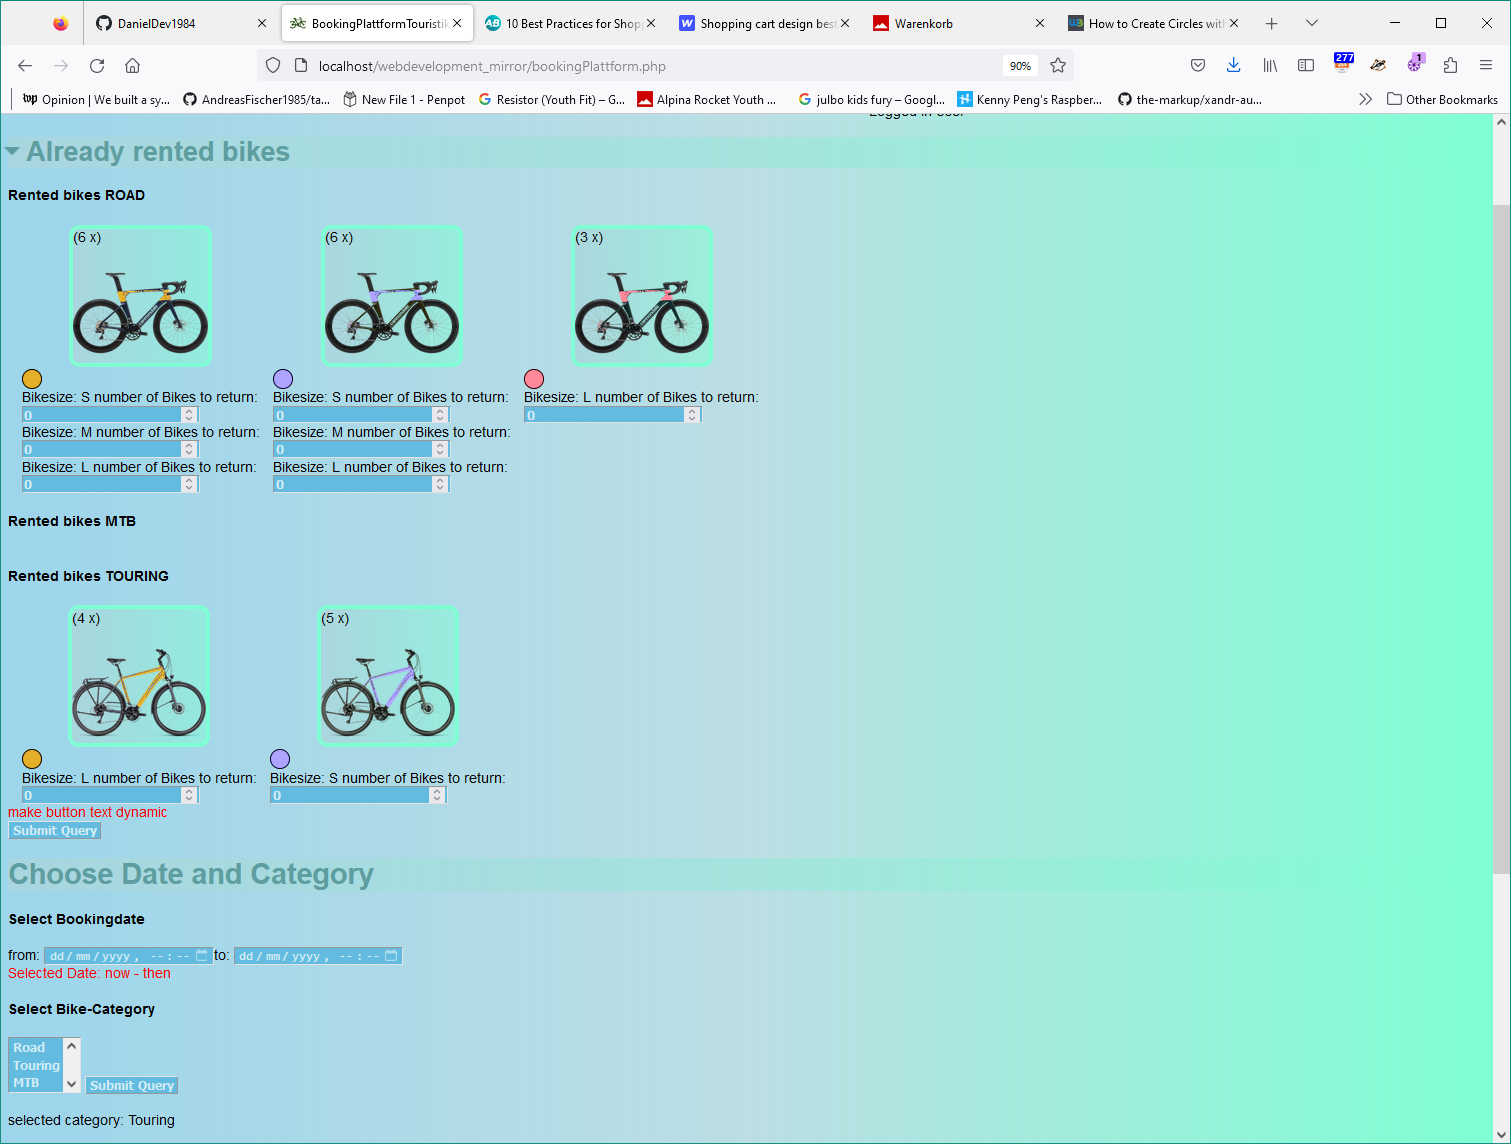
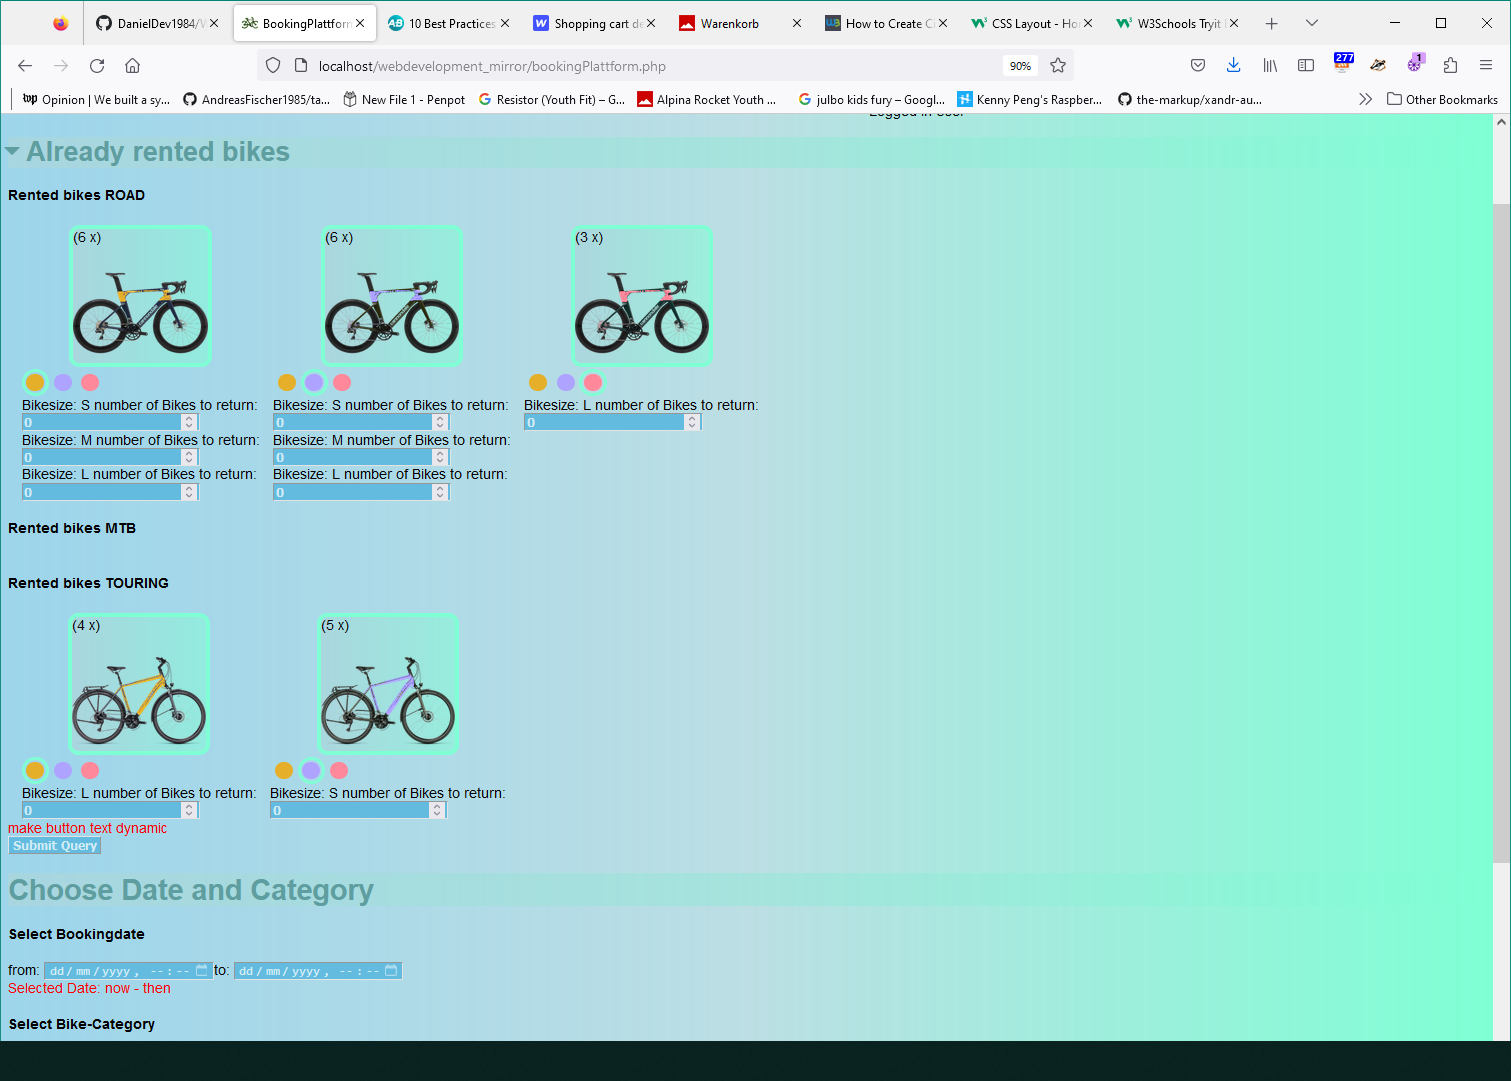
add base logic for variant-selection highlight

diff --git a/OutsourcedFunction.php b/OutsourcedFunction.php
@@ -24,21 +24,43 @@
             height: 20px;
             background: <?php echo BaseColorBike;?>;
             filter: saturate(80%) hue-rotate(<?php echo HueRotationVarA;?>deg);
-            border: 1px solid #000;
+            
         }
 		.circleVariantB {
             width:  20px;
             height: 20px;
             background: <?php echo BaseColorBike;?>;
             filter: saturate(80%) hue-rotate(<?php echo HueRotationVarB;?>deg);
-            border: 1px solid #000;
+            
         }
 		.circleVariantC {
             width:  20px;
             height: 20px;
             background: <?php echo BaseColorBike;?>;
-            filter: saturate(80%) hue-rotate(<?php echo HueRotationVarC;?>deg);
-            border: 1px solid #000;
+			filter: saturate(80%) hue-rotate(<?php echo HueRotationVarC;?>deg);
+            
+        }
+		.sourrindinCircle {
+			width:  24px;
+            height: 24px;
+            background: none;
+			display: flex;
+  justify-content: center;
+  align-items: center;
+            border: 4px solid aquamarine;
+		}
+		.sourrindinCircle_Off {
+			width:  24px;
+            height: 24px;
+            background: none;
+			display: flex;
+  justify-content: center;
+  align-items: center;
+            border: 4px solid rgba(0,0,0,0%);
+		}
+		.localFlexRow {
+            display: flex;
+            flex-direction: row;
         }
 </style>
 
@@ -100,6 +122,15 @@ function getHueForVariant_circle($variant)
     }
 	return $hue;
 }
+function getSelectionHighlight($currentVariant, $variant)
+{
+	$selectionHighlight = "sourrindinCircle_Off";
+	if($currentVariant == $variant)
+	{
+		$selectionHighlight = "sourrindinCircle";
+	}
+	return $selectionHighlight;
+}
 
 ?>
 <?php /*todo: implement this with factory pattern (or sth more suitable for the task...)*/
@@ -152,7 +183,13 @@ function createBikesOverview($config, $user, $bikeTypes) {
                             //todo: ensure that only the allowed variants are taken into account (and dont default to 0° when variant is not supported)
                             $variant = $node->VARIANT;
                             $hue = getHueForVariant($variant);
-                            $hue_circle = getHueForVariant_circle($variant);
+							//todo: remove hardvoded variants -> iterate over all available variants dynamically
+                            $hue_circle_A = getHueForVariant_circle("A");
+							$hue_circle_B = getHueForVariant_circle("B");
+							$hue_circle_C = getHueForVariant_circle("C");
+							$selectionHightlight_A = getSelectionHighlight("A", $variant);
+							$selectionHightlight_B = getSelectionHighlight("B", $variant);
+							$selectionHightlight_C = getSelectionHighlight("C", $variant);
                             $numberRentedBikes = $node->RENTED;
                             /* todo: think of a smarter way to achieve conditional disabling of size-option*/
                             $sizeSHidden = "hidden";
@@ -216,7 +253,17 @@ function createBikesOverview($config, $user, $bikeTypes) {
                                     <p class="stubImage">($totalNumberOfBikesForVariant x)
                                         <img class=$hue src=$imgSrc  alt="stub mtb categoryicon" width="100%" heigt="auto">
                                     </p>
-                                    <div class="circleBase $hue_circle"></div>
+                                    <div class="localFlexRow">
+                                         <div class="circleBase $selectionHightlight_A">
+                                             <div class="circleBase $hue_circle_A"></div>
+                                         </div>
+                                         <div class="circleBase $selectionHightlight_B">
+                                             <div class="circleBase $hue_circle_B"></div>
+                                         </div>
+                                         <div class="circleBase $selectionHightlight_C">
+                                             <div class="circleBase $hue_circle_C"></div>
+                                         </div>
+                                    </div>
                                     <div $sizeSHidden>
                                     <label>Bikesize: S</label>
                                         <label for="numberOfBikesSizeS_$tmpName">number of Bikes $description:</label><br>
